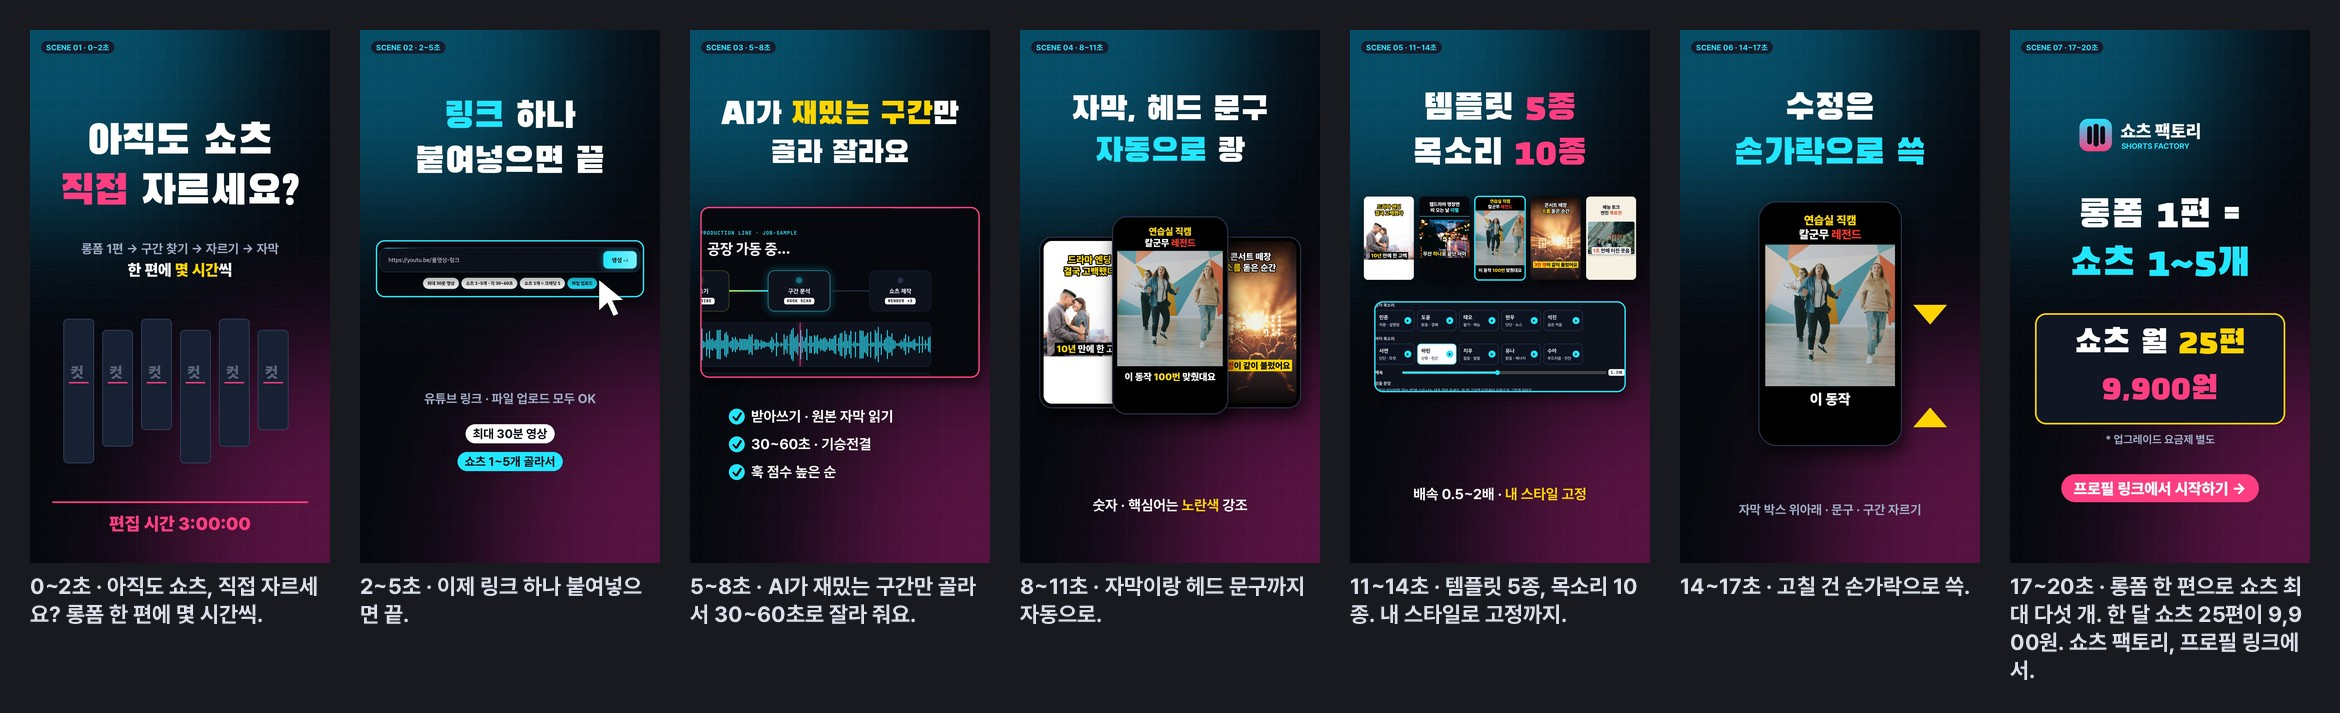
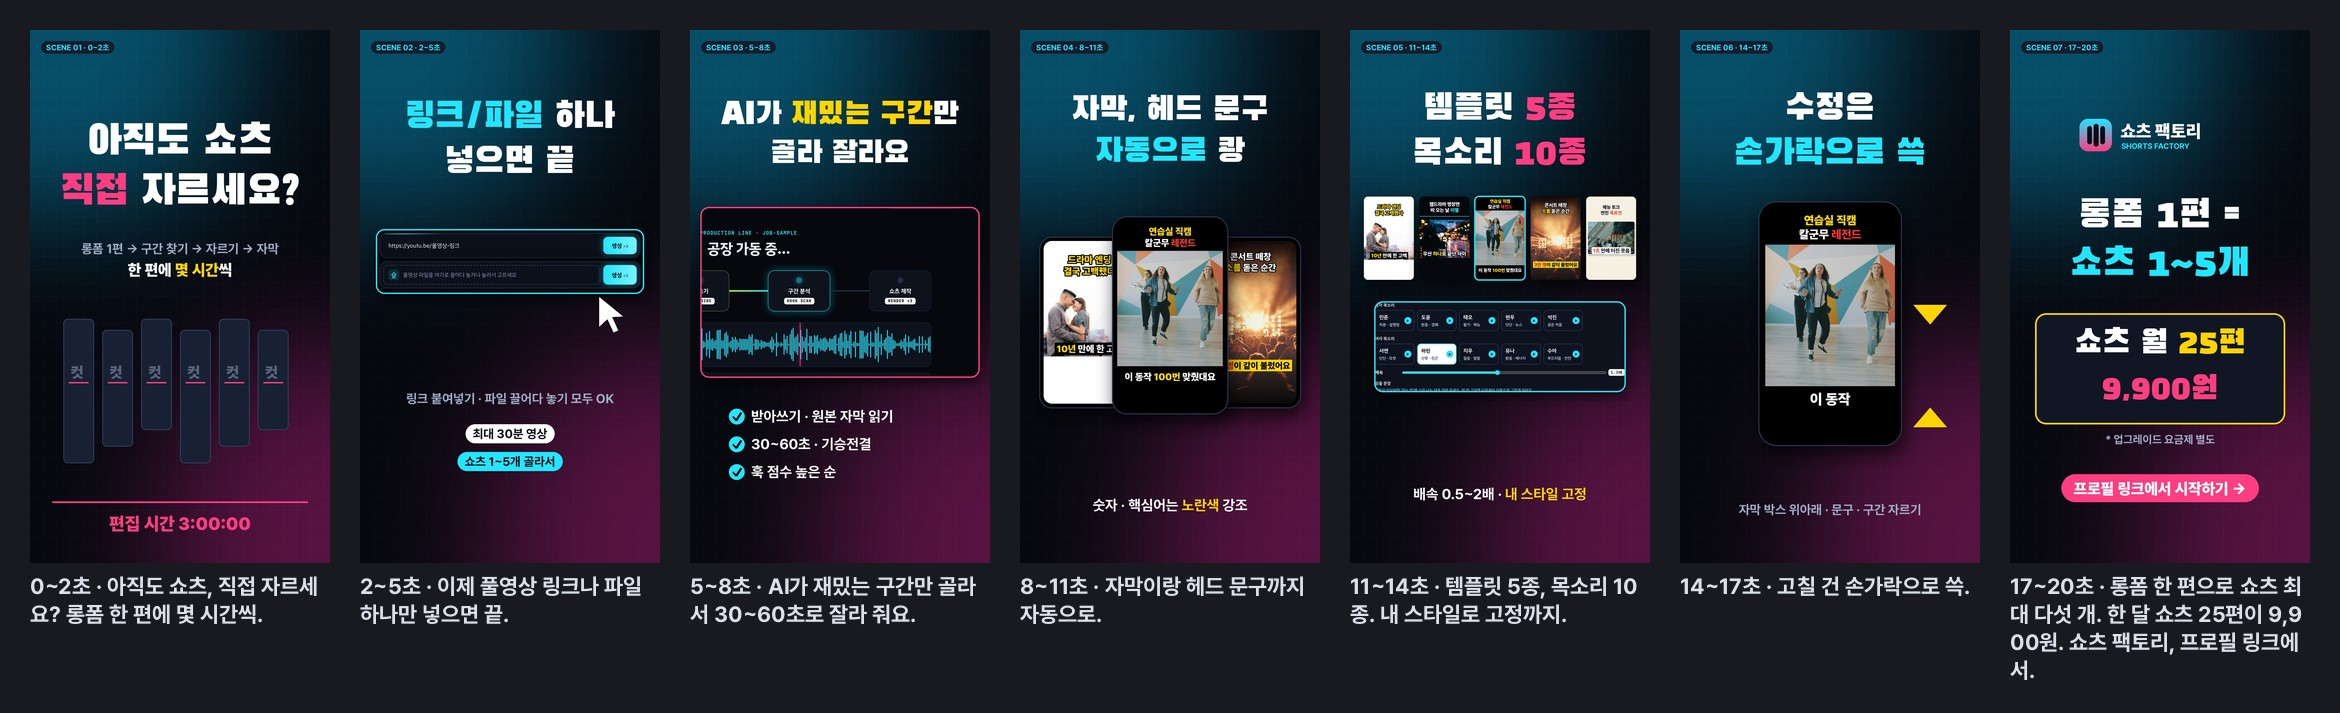
쇼츠 팩토리 마케팅: 링크/파일 두 칸 메인 화면 반영한 최종본 (릴스 · 인스타 · 사용설명서)
Claude-Session: https://claude.ai/code/session_01XzgYRsYwxnJKVwoBmLGtiR

diff --git a/business/sf_marketing/make_mk.py b/business/sf_marketing/make_mk.py
@@ -198,10 +198,10 @@ def r1(im, d):
 
 
 def r2(im, d):
-    lines(d, 540, 250, "[링크] 하나\n붙여넣으면 끝", F(130, "Han"), anchor="m", hl=CY)
-    shot(im, SHOTS["home"], (60, 760, 1020, 1100), crop=(600, 740, 2280, 1090), border=CY)
-    rich(d, 540, 1300, "유튜브 링크 · 파일 업로드 모두 OK", F(46, "Bold"), base=DIM, anchor="m")
-    d.polygon([(860, 900), (860, 1010), (890, 982), (912, 1030), (930, 1022), (908, 974), (948, 972)], fill=WH, outline=(0, 0, 0))
+    lines(d, 540, 250, "[링크/파일] 하나\n넣으면 끝", F(130, "Han"), anchor="m", hl=CY)
+    shot(im, SHOTS["home"], (60, 720, 1020, 720 + int(960 * 400 / 1680)), crop=(600, 760, 2280, 1160), border=CY)
+    rich(d, 540, 1300, "링크 붙여넣기 · 파일 끌어다 놓기 모두 OK", F(46, "Bold"), base=DIM, anchor="m")
+    d.polygon([(860, 960), (860, 1070), (890, 1042), (912, 1090), (930, 1082), (908, 1034), (948, 1032)], fill=WH, outline=(0, 0, 0))
     chip(d, 540, 1420, "최대 30분 영상", F(44, "Bold"), anchor="m")
     chip(d, 540, 1520, "쇼츠 1~5개 골라서", F(44, "Bold"), bg=CY, anchor="m")
 
@@ -257,7 +257,7 @@ def r7(im, d):
 
 SAY = [
     (r1, "0~2초", "아직도 쇼츠, 직접 자르세요? 롱폼 한 편에 몇 시간씩."),
-    (r2, "2~5초", "이제 링크 하나 붙여넣으면 끝."),
+    (r2, "2~5초", "이제 풀영상 링크나 파일 하나만 넣으면 끝."),
     (r3, "5~8초", "AI가 재밌는 구간만 골라서 30~60초로 잘라 줘요."),
     (r4, "8~11초", "자막이랑 헤드 문구까지 자동으로."),
     (r5, "11~14초", "템플릿 5종, 목소리 10종. 내 스타일로 고정까지."),
@@ -309,7 +309,7 @@ def c2(im, d):
 
 def c3(im, d):
     lines(d, 70, 100, "쇼츠 팩토리는\n[3단계]로 끝", F(100, "Han"), hl=CY)
-    steps = [("1", "풀영상 링크 · 파일 넣기", SHOTS["home"], (600, 740, 2280, 1040)), ("2", "개수 · 템플릿 고르기", SHOTS["count"], None),
+    steps = [("1", "풀영상 링크 / 파일 넣기", SHOTS["home"], (600, 760, 2280, 1160)), ("2", "개수 · 템플릿 고르기", SHOTS["count"], None),
              ("3", "편집 · mp4 다운로드", SHOTS["results"], (240, 600, 1720, 1100))]
     y = 420
     for no, t, src, cr in steps:
@@ -411,7 +411,7 @@ def scale_box(b, src_box, dst):
 def g1(im, d):
     logo(im, 640, 250, 1.5)
     lines(d, 960, 450, "사용 설명서", F(150, "Han"), anchor="m")
-    rich(d, 960, 660, "링크 하나로 쇼츠 만들기 · [3분]이면 끝", F(54, "Bold"), base=DIM, hl=CY, anchor="m")
+    rich(d, 960, 660, "풀영상 [링크/파일] 하나로 쇼츠 만들기", F(54, "Bold"), base=DIM, hl=CY, anchor="m")
     f = F(30, "Bold")
     ts = ["링크 / 파일", "개수 · 템플릿", "확인", "제작", "다운로드", "편집", "목소리 · 스타일"]
     tot = sum(f.getlength(t) + 36 for t in ts) + 24 * (len(ts) - 1)
@@ -421,16 +421,16 @@ def g1(im, d):
 
 
 def g2(im, d):
-    src = (500, 160, 2380, 1060)
-    dst = shot(im, SHOTS["home"], (150, 170, 1310, 170 + int(1160 * 900 / 1880)), crop=src, border=None)
+    src = (500, 160, 2380, 1260)
+    dst = shot(im, SHOTS["home"], (150, 170, 1250, 170 + int(1100 * 1100 / 1880)), crop=src, border=None)
     callout(im, scale_box((620, 780, 2260, 940), src, dst), 1, "", "r")
+    callout(im, scale_box((620, 960, 2260, 1128), src, dst), 2, "", "r")
     d = ImageDraw.Draw(im)
     y = 260
-    for t in ["풀영상 링크 붙여넣기", "또는 풀영상 파일 업로드", "30분 이하 영상까지"]:
-        d.text((1400, y), "•", font=F(44), fill=CY)
-        d.text((1440, y), t, font=F(40, "Bold"), fill=WH)
-        y += 90
-    chip(d, 1400, 600, "링크 · 파일 둘 다 OK", F(36, "Bold"), bg=YL)
+    for t in ["1. 풀영상 링크 붙여넣고 생성", "2. 또는 파일을 끌어다 놓고 생성", "   (눌러서 골라도 돼요)", "30분 이하 영상까지"]:
+        d.text((1360, y), t, font=F(38 if not t.startswith(" ") else 32, "Bold"), fill=DIM if t.startswith(" ") else WH)
+        y += 70 if t.startswith("2") else 90
+    chip(d, 1360, 640, "링크 · 파일 둘 다 OK", F(36, "Bold"), bg=YL)
 
 
 def g3(im, d):
@@ -516,8 +516,8 @@ def g9(im, d):
 
 
 GS = [
-    (g1, "", "쇼츠 팩토리 사용법을 알려 드릴게요. 링크 하나로 쇼츠 만들기, 3분이면 끝나요."),
-    (g2, "풀영상 링크 / 파일", "먼저 풀영상 링크를 붙여넣거나, 영상 파일을 올려요. 30분 이하 영상까지 가능해요."),
+    (g1, "", "쇼츠 팩토리 사용법을 알려 드릴게요. 풀영상 링크나 파일 하나로 쇼츠를 만들어 봐요."),
+    (g2, "풀영상 링크 / 파일", "먼저 풀영상 링크를 붙여넣고 생성을 누르거나, 아래 칸에 영상 파일을 끌어다 놓고 생성을 눌러요. 30분 이하 영상까지 가능해요."),
     (g3, "개수 · 템플릿 고르기", "만들 쇼츠 개수를 1개부터 5개까지 고르고, 템플릿을 골라요. 고른 개수만큼 크레딧이 빠져요."),
     (g4, "저작권 확인", "생성 전에 체크 세 개를 해 주세요. 권리가 있는 영상만 올리고, 올릴 때 원본 출처를 꼭 표시해요."),
     (g5, "제작 기다리기", "이제 공장이 돌아가요. AI가 받아쓰고, 재밌는 구간을 골라 쇼츠를 만들어요."),

diff --git a/business/sf_marketing/README.md b/business/sf_marketing/README.md
@@ -1,4 +1,4 @@
-# 쇼츠 팩토리 마케팅 샘플 (11/23 초안)
+# 쇼츠 팩토리 마케팅 샘플 (11/23 최종본)
 
 재료: 실제 서비스 화면 캡처 + 요즘 장르(드라마 · 아이돌 · 예능) 장면 사진 (Unsplash, photos/*.json 에 작가) → mock.py 로 템플릿 5종 결과 화면 합성
 다시 만들기: `python3 make_mk.py` (캡처 d_*.png 는 scratchpad/mk/cap.js 로 생성)
@@ -7,7 +7,7 @@
 | 장면 | 시간 | 화면 | 내레이션 · 자막 |
 |---|---|---|---|
 | 1 | 0~2초 | 아직도 쇼츠 직접 자르세요? | 아직도 쇼츠, 직접 자르세요? 롱폼 한 편에 몇 시간씩. |
-| 2 | 2~5초 | 링크 입력창 + 커서 | 이제 링크 하나 붙여넣으면 끝. |
+| 2 | 2~5초 | 링크 칸 + 파일 칸 + 커서 | 이제 풀영상 링크나 파일 하나만 넣으면 끝. |
 | 3 | 5~8초 | 공장 가동 화면 | AI가 재밌는 구간만 골라서 30~60초로 잘라 줘요. |
 | 4 | 8~11초 | 템플릿 쇼츠 3개 | 자막이랑 헤드 문구까지 자동으로. |
 | 5 | 11~14초 | 템플릿 5종 + 목소리 | 템플릿 5종, 목소리 10종. 내 스타일로 고정까지. |
@@ -18,5 +18,5 @@
 표지(롱폼 1편 → 쇼츠 5개) · 귀찮은 3가지 · 3단계로 끝 · 템플릿 5종 · 디테일 4가지 · 요금제 + CTA
 
 ## 3. 가입자용 사용설명서 영상 (16:9 · guide_01~09)
-표지 → 링크 → 개수·템플릿 → 저작권 확인 → 제작 → 결과·다운로드 → 편집 → 목소리·내 스타일 → 자주 묻는 질문
+표지 → 풀영상 링크/파일 → 개수·템플릿 → 저작권 확인 → 제작 → 결과·다운로드 → 편집 → 목소리·내 스타일 → 자주 묻는 질문
 (장면별 내레이션은 sheet_3_guide.jpg 아래 글)
